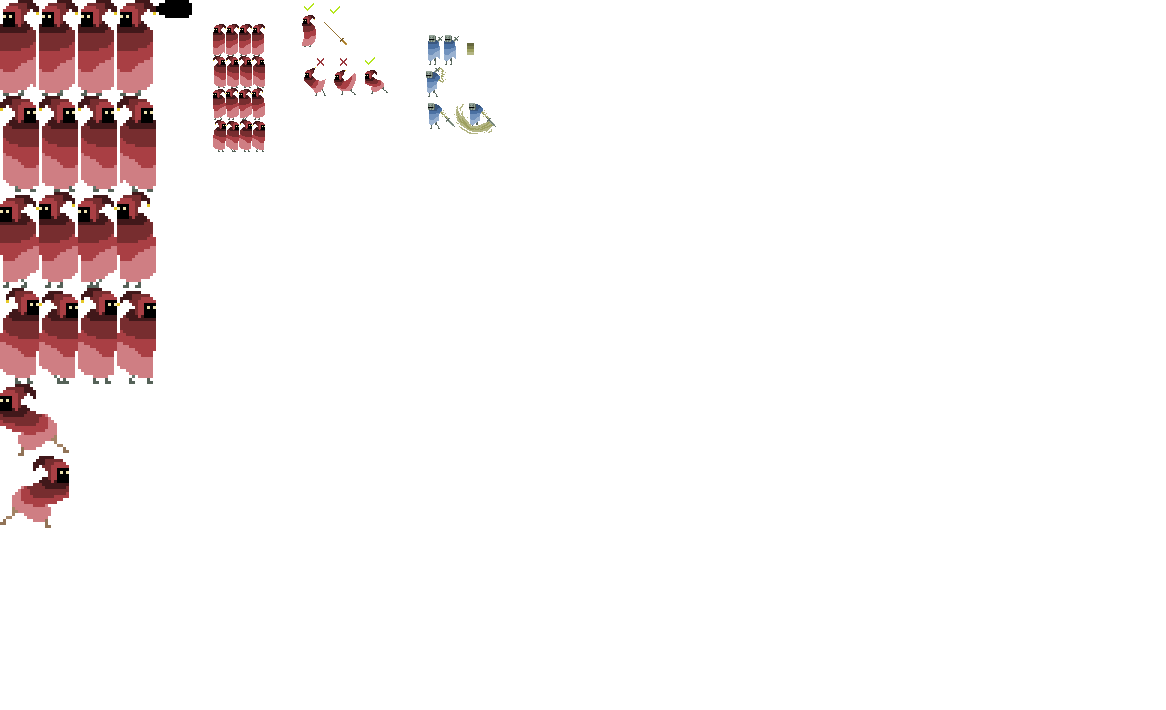
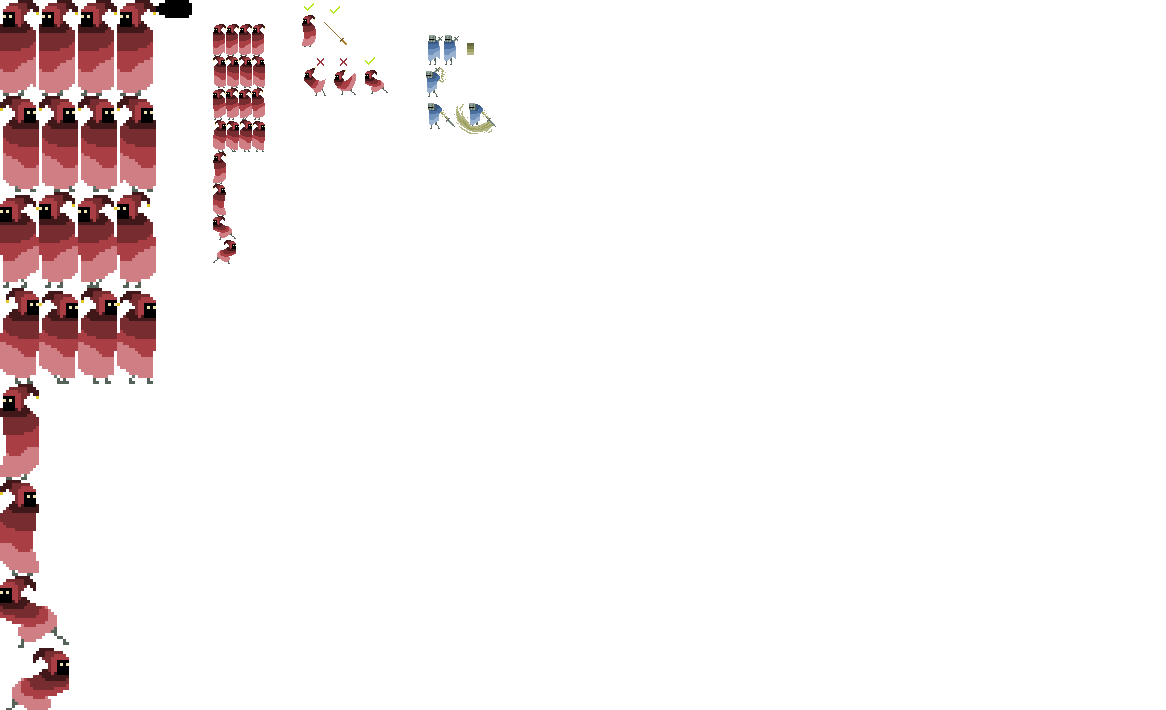
Add files via upload

Changed region(s): [[0.0, 0.5268, 0.0617, 1.0], [0.1852, 0.2169, 0.2161, 0.3718]]

diff --git a/main.cpp b/main.cpp
@@ -130,6 +130,7 @@ int main(int argc, char **argv) {
 	//ALLEGRO VARIABLES
 	//==============================================
 	ALLEGRO_DISPLAY *display = NULL;
+	ALLEGRO_DISPLAY_MODE   disp_data;
 	ALLEGRO_EVENT_QUEUE *event_queue = NULL;
 	ALLEGRO_TIMER *timer = NULL;
 	ALLEGRO_FONT *font18;
@@ -139,8 +140,11 @@ int main(int argc, char **argv) {
 	//==============================================
 	if (!al_init())										//initialize Allegro
 		return -1;
+	al_get_display_mode(al_get_num_display_modes() - 1, &disp_data);
 
-	display = al_create_display(SCREENW, SCREENH);		//create our display object
+	//al_set_new_display_flags(ALLEGRO_FULLSCREEN);
+	//display = al_create_display(disp_data.width, disp_data.height);
+	display = al_create_display(SCREENW - 100, SCREENH - 100);		//create our display object
 
 	if (!display)										//test display object
 		return -1;
@@ -221,9 +225,9 @@ int main(int argc, char **argv) {
 
 	//al_clear_to_color(al_map_rgb(0, 0, 0));
 	//al_flip_display();
-
 	al_start_timer(timer);
 	gameTime = al_current_time();
+
 
 	//game loop begin
 	while (!doexit)
@@ -232,7 +236,6 @@ int main(int argc, char **argv) {
 
 		ALLEGRO_EVENT ev;
 		al_wait_for_event(event_queue, &ev);
-
 		frametimer++;
 		if (frametimer == FPS)
 		{
@@ -412,7 +415,44 @@ int main(int argc, char **argv) {
 				cameraYPos -= cameraYDir;
 
 				//keyboard/mouse commands
-				if (keys[MOUSE_BUTTON] && keys[SHIFT])
+				//controls should be:
+				//-WASD for movement
+				//-hold left mouse button to charge attack (cannot move during time). will voice audio when ready
+				//-when left mouse button released and charging is sufficient, dash
+				//-(may not be possible) right mouse button to dash.
+
+				if (keys[MOUSE_BUTTON])
+				{
+					player->Charge(mousex);
+				}
+				if (!keys[MOUSE_BUTTON] && player->GetChargeTime() >= 60) {//if player has charged enough (>=60 frames), and no mouse button (mouse button has been released), Lunge will trigger.
+					player->Lunge(MouseAngle);
+				}
+				else if (!keys[MOUSE_BUTTON] && player->GetChargeTime() < 60)//if player has NOT charged enough (<60 frames), and no mouse button (mouse button has been released), ChargeTime will be reset to 0.
+					player->SetChargeTime(0);
+
+				if (!keys[MOUSE_BUTTON]) {
+					if (keys[UP]) {//player movement
+						player->MoveUp();
+					}
+					else if (keys[DOWN]) {
+						player->MoveDown();
+					}
+					else {
+						player->ResetAnimation(1);
+					}
+
+					if (keys[LEFT]) {
+						player->MoveLeft();
+					}
+					else if (keys[RIGHT]) {
+						player->MoveRight();
+					}
+					else {
+						player->ResetAnimation(0);
+					}
+				}
+				/*if (keys[MOUSE_BUTTON] && keys[SHIFT])
 				{
 					Bullet *bullet = new Bullet();
 					bullet->Init(BulletImage, player->GetX() + 25, player->GetY() + 25, 16, 16, MouseAngle, sin((MouseAngle + 90) / 180 * PI), cos((MouseAngle + 90) / 180 * PI));
@@ -454,7 +494,7 @@ int main(int argc, char **argv) {
 					else {
 						player->ResetAnimation(0);
 					}
-				}
+				}*/
 
 
 				if (keys[NUM_1])//temp
@@ -481,10 +521,10 @@ int main(int argc, char **argv) {
 				}
 				if (keys[NUM_4])
 				{
-						MistSpawner *mistspawner = new MistSpawner();
-						mistspawner->Init(ColorImage, mousex, mousey, WISP);
-						objects.push_back(mistspawner);
-						keys[NUM_4] = false;
+					MistSpawner *mistspawner = new MistSpawner();
+					mistspawner->Init(ColorImage, mousex, mousey, WISP);
+					objects.push_back(mistspawner);
+					keys[NUM_4] = false;
 				}
 				if (keys[NUM_5])
 				{
@@ -493,7 +533,7 @@ int main(int argc, char **argv) {
 					objects.push_back(mistspawner);
 					keys[NUM_5] = false;
 				}
-				if (keys[NUM_6]) 
+				if (keys[NUM_6])
 				{
 					keys[NUM_6] = false;
 				}
@@ -545,12 +585,12 @@ int main(int argc, char **argv) {
 				//update
 				for (iter = objects.begin(); iter != objects.end(); ++iter)
 				{
-						if((*iter)->GetID() != MISTSPAWNER &&//list of items that actually require the entire object list.
-							(*iter)->GetID() != MIST &&
-							(*iter)->GetID() != CULTIST)
-							(*iter)->Update(cameraXDir, cameraYDir, blank);
-						else
-							(*iter)->Update(cameraXDir, cameraYDir, objects);
+					if ((*iter)->GetID() != MISTSPAWNER &&//list of items that actually require the entire object list.
+						(*iter)->GetID() != MIST &&
+						(*iter)->GetID() != CULTIST)
+						(*iter)->Update(cameraXDir, cameraYDir, blank);
+					else
+						(*iter)->Update(cameraXDir, cameraYDir, objects);
 				}
 
 			}

diff --git a/Player.cpp b/Player.cpp
@@ -20,8 +20,9 @@ void Player::Init(ALLEGRO_BITMAP *image, double ref_x, double ref_y, int ref_dir
 	SetCollidable(true);
 	SetOrigCollidable(true);
 
-	health = 5;
-	timer = 0;
+	Health = 5;
+	Timer = 0;
+	ChargeTime = 0;
 
 	maxFrame = 4;
 	curFrame = 1;
@@ -33,9 +34,9 @@ void Player::Init(ALLEGRO_BITMAP *image, double ref_x, double ref_y, int ref_dir
 void Player::Update(double cameraX, double cameraY, vector<GameObject*> &objects)
 {
 	GameObject::Update(cameraX, cameraY, objects);
-	timer++;
-	if (timer >= 30) {
-		timer = 0;
+	Timer++;
+	if (Timer >= 30) {
+		Timer = 0;
 		curFrame++;
 		if (curFrame >= maxFrame)//looping for animation
 			curFrame = 0;
@@ -53,28 +54,28 @@ void Player::Render()
 }
 
 void Player::MoveUp() {
-	if (Action == MOVINGRIGHT || Action == IDLERIGHT || Action == DASHRIGHT)
-		Action = MOVINGRIGHT;
+	if (Animation == MOVINGRIGHT || Animation == IDLERIGHT || Animation == DASHRIGHT)
+		Animation = MOVINGRIGHT;
 	else
-		Action = MOVINGLEFT;
+		Animation = MOVINGLEFT;
 	dirY = -1;
 	Player::AnimationHandler();
 }
 void Player::MoveDown() {
-	if (Action == MOVINGRIGHT || Action == IDLERIGHT || Action == DASHRIGHT)
-		Action = MOVINGRIGHT;
+	if (Animation == MOVINGRIGHT || Animation == IDLERIGHT || Animation == DASHRIGHT)
+		Animation = MOVINGRIGHT;
 	else
-		Action = MOVINGLEFT;
+		Animation = MOVINGLEFT;
 	dirY = 1;
 	Player::AnimationHandler();
 }
 void Player::MoveLeft() {
-	Action = MOVINGLEFT;
+	Animation = MOVINGLEFT;
 	dirX = -1;
 	Player::AnimationHandler();
 }
 void Player::MoveRight() {
-	Action = MOVINGRIGHT;
+	Animation = MOVINGRIGHT;
 	dirX = 1;
 	Player::AnimationHandler();
 }
@@ -82,10 +83,10 @@ void Player::MoveRight() {
 void Player::ResetAnimation(int position)
 {
 	if (position == 1) {
-		if (Action == MOVINGLEFT)
-			Action = IDLELEFT;
-		else if (Action == MOVINGRIGHT)
-			Action = IDLERIGHT;
+		if (Animation == MOVINGLEFT)
+			Animation = IDLELEFT;
+		else if (Animation == MOVINGRIGHT)
+			Animation = IDLERIGHT;
 		dirY = 0;
 		Player::AnimationHandler();
 	}
@@ -101,36 +102,84 @@ void Player::Dash(double MouseAngle) {
 	dirX = sin((MouseAngle + 90) / 180 * PI);
 	dirY = cos((MouseAngle + 90) / 180 * PI);
 }
+void Player::Charge(int mousex) {
+	ChargeTime++;
+	cout << ChargeTime << endl;
+	if (x > mousex)
+		Animation = CHARGELEFT;
+	else
+		Animation = CHARGERIGHT;
+	AnimationHandler();
+}
+void Player::Lunge(double MouseAngle) {
+	cout << "LUNGE!" << endl;
+	velX *= sqrt(ChargeTime);
+	velY *= sqrt(ChargeTime);
+	dirX = -sin(MouseAngle);// the plus 90 adjusts the angle. without it, the unit will orbit the target.
+	dirY = cos(MouseAngle);
 
-//sets up the various variables that come alongside the Action states. called whenever Action is changed
+	//ChargeTime--;
+	ChargeTime = 0;
+}
+
+//sets up the various variables that come alongside the Animation states. called whenever Animation is changed
 void Player::AnimationHandler()
 {
 	//dimensions and other variables will default to:
-	//frameWidth = 39;
-	//frameHeight = 96;
-	//boundX = 39;
-	//boundY = 96;
+	frameWidth = 39;
+	frameHeight = 96;
+	boundX = 39;
+	boundY = 96;
+	velX = PLAYERVELX, velY = PLAYERVELY;
 
-	if (Action == IDLELEFT) {
+	if (Animation == IDLELEFT) {
 		curAnim = 0;
 		maxFrame = 4;
 	}
-	else if (Action == IDLERIGHT) {
+	else if (Animation == IDLERIGHT) {
 		curAnim = 1;
 		maxFrame = 4;
 	}
-	else if (Action == MOVINGLEFT) {
+	else if (Animation == MOVINGLEFT) {
 		curAnim = 2;
 		maxFrame = 4;
 	}
-	else if (Action == MOVINGRIGHT) {
+	else if (Animation == MOVINGRIGHT) {
 		curAnim = 3;
 		maxFrame = 4;
 	}
-	else if (Action == DASHLEFT) {
+	else if (Animation == CHARGELEFT) {
+		curAnim = 4;
+		maxFrame = 1;
+	}
+	else if (Animation == CHARGERIGHT) {
+		curAnim = 5;
+		maxFrame = 1;
+	}
+	else if (Animation == LUNGELEFT) {
+		curAnim = 6;
+		maxFrame = 1;
+		frameWidth = 69;
+		frameHeight = 72;
+		boundX = 69;
+		boundY = 72;
+	}
+	else if (Animation == LUNGERIGHT) {
+		curAnim = 7;
+		maxFrame = 1;
+		frameWidth = 69;
+		frameHeight = 72;
+		boundX = 69;
+		boundY = 72;
+	}
+	else if (Animation == DASHLEFT) {
 		cout << "DASHLEFT is not finished. get off your ass and finish it, future self." << endl;
 	}
-	else if (Action == DASHRIGHT) {
+	else if (Animation == DASHRIGHT) {
 		cout << "DASHRIGHT is not finished. get off your ass and finish it, future self." << endl;
 	}
+
+	//sets curFrame based on maxFrame
+	if (curFrame > maxFrame)
+		curFrame = maxFrame-1;
 }

diff --git a/Player.h b/Player.h
@@ -7,14 +7,18 @@ using namespace std;
 class Player : public GameObject//inheritance
 {
 private:
-	int health;
-	int timer;
+	int Health;
+	int Timer;
 	enum ACTION {
 		IDLELEFT, IDLERIGHT,
 		MOVINGLEFT, MOVINGRIGHT,
-		DASHLEFT, DASHRIGHT
+		DASHLEFT, DASHRIGHT,
+		CHARGELEFT, CHARGERIGHT,
+		LUNGELEFT, LUNGERIGHT
 	};//list of all the various animations that the player has
-	int Action;//tracks which Action is being performed by Units
+	int Animation;//tracks which animtaion is being performed by the main character
+	int ChargeTime;//tracks amount that character has charged attack
+
 public:
 	Player();
 	void Destroy();
@@ -23,9 +27,9 @@ public:
 	void Update(double cameraX, double cameraY, vector<GameObject*> &objects);
 	void Render();
 
-	int GetHealth() { return health; }
+	int GetHealth() { return Health; }
 
-	void TakeDamage() { health--; }
+	void TakeDamage() { Health--; }
 
 	void AnimationHandler();
 	void MoveUp();
@@ -34,4 +38,8 @@ public:
 	void MoveRight();
 	void ResetAnimation(int position);
 	void Dash(double MouseAngle);
+	void Charge(int mousex);//chrages attack
+	int GetChargeTime() { return ChargeTime; }//returns how much attack is charged
+	void SetChargeTime(int ChargeTime) { Player::ChargeTime = ChargeTime; }
+	void Lunge(double MouseAngle);//attack itself
 };

diff --git a/Globals.h b/Globals.h
@@ -1,8 +1,9 @@
 #pragma once
 
-const int DIMW = 100, DIMH = 100;//ground tile size
+//int SCREENW = al_get_display_width(display), SCREENH = al_get_display_height(display);//console size
 
-const int SCREENW = 1680, SCREENH = 1050;//console size
+const int DIMW = 100, DIMH = 100;//ground tile size
+const int SCREENW = 1920, SCREENH = 1080;//console size
 const int WORLDW = (40 * DIMW) + SCREENW, WORLDH = (40 * DIMH) + SCREENH;//game map size
 const int MAPW = WORLDW / DIMW, MAPH = WORLDH / DIMH;//game map size, converted for matrix
 
